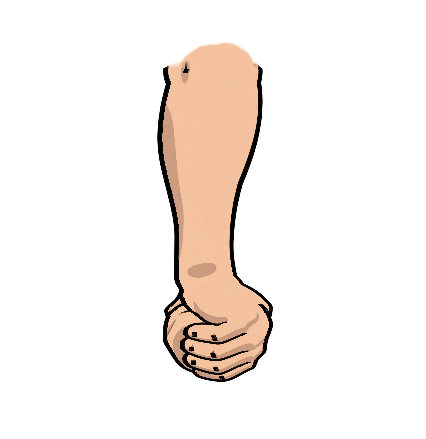
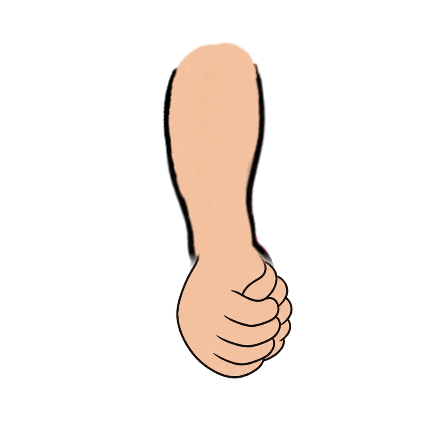
PLAN_GRAPPLES T2.0b (Codex, Opus-reviewed): George's three clasp forearms keep his own forearm.png shaft (0 changed px through the wrist, was ~18.9k) and get new hands in his line; clutch anchors refit
Fit --check passes (capDiff 0 both rigs). Proof: research/art/clasps-2026-11/t2-0b-george/. Opus look: hand outlines are thinner than George's base hand, waistClasp most; Derek judges in ring.

Changed region(s): [[0.3662, 0.1481, 0.7019, 0.8884]]

diff --git a/research/art/clasps-2026-11/t2-0b-george/index.html b/research/art/clasps-2026-11/t2-0b-george/index.html
@@ -1,0 +1,1 @@
+<!doctype html><meta charset="utf-8"><title>George clasp hand-only revision — T2.0b</title><style>body{font:16px system-ui;background:#181b20;color:#eee;margin:24px}a{color:#9dcaff}img{max-width:100%;height:auto}.row{display:flex;gap:8px}.row a{width:25%}table{border-collapse:collapse}td,th{padding:8px;border:1px solid #555}</style><h1>George clasps — hand-only revision (T2.0b)</h1><p>426×439 canvas, original elbow pivot. Rows 0–252 inclusive are copied pixel for pixel from George’s forearm.png, including transparent RGB. Only the hand side of that wrist boundary changes. No Lou wrist oval or elbow notch is transplanted. Uncommitted candidates for Opus review.</p><p>Each panel uses the identical canvas and pose. Overlay = 50% base + 50% clasp. Magenta = changed RGBA pixel, yellow rectangle = actual changed bounds, cyan line = wrist boundary. Open an image for full 3× pixels. Raw binary masks have no annotations.</p><table><tr><th>Clasp</th><th>Old changed shaft px</th><th>New changed shaft px</th><th>All changed px</th><th>Changed bounds</th></tr><tr><td>collarTie</td><td>18861</td><td><b>0</b></td><td>13746</td><td>[148, 253, 301, 400]</td></tr><tr><td>elbowCup</td><td>18894</td><td><b>0</b></td><td>14786</td><td>[128, 253, 301, 400]</td></tr><tr><td>waistClasp</td><td>18546</td><td><b>0</b></td><td>13716</td><td>[174, 253, 301, 430]</td></tr></table><h2>collarTie</h2><div class="row"><a href="collarTie-base-3x.png">base<img src="collarTie-base-3x.png"></a><a href="collarTie-clasp-3x.png">clasp<img src="collarTie-clasp-3x.png"></a><a href="collarTie-overlay-3x.png">overlay<img src="collarTie-overlay-3x.png"></a><a href="collarTie-diff-3x.png">diff<img src="collarTie-diff-3x.png"></a></div><p><a href="collarTie-proof-3x.png">Combined proof</a> · <a href="collarTie-diff-mask.png">Raw pixel diff</a></p><h2>elbowCup</h2><div class="row"><a href="elbowCup-base-3x.png">base<img src="elbowCup-base-3x.png"></a><a href="elbowCup-clasp-3x.png">clasp<img src="elbowCup-clasp-3x.png"></a><a href="elbowCup-overlay-3x.png">overlay<img src="elbowCup-overlay-3x.png"></a><a href="elbowCup-diff-3x.png">diff<img src="elbowCup-diff-3x.png"></a></div><p><a href="elbowCup-proof-3x.png">Combined proof</a> · <a href="elbowCup-diff-mask.png">Raw pixel diff</a></p><h2>waistClasp</h2><div class="row"><a href="waistClasp-base-3x.png">base<img src="waistClasp-base-3x.png"></a><a href="waistClasp-clasp-3x.png">clasp<img src="waistClasp-clasp-3x.png"></a><a href="waistClasp-overlay-3x.png">overlay<img src="waistClasp-overlay-3x.png"></a><a href="waistClasp-diff-3x.png">diff<img src="waistClasp-diff-3x.png"></a></div><p><a href="waistClasp-proof-3x.png">Combined proof</a> · <a href="waistClasp-diff-mask.png">Raw pixel diff</a></p><p><a href="REPORT.md">Report</a> · <a href="pixel-diff.json">Exact measurements</a></p>

diff --git a/src/characters/george_roster_v1.js b/src/characters/george_roster_v1.js
@@ -267,8 +267,8 @@ export const georgeRosterV1 = {
                 "file": "forearm_collar_tie.png",
                 "semanticAnchors": {
                     "clutch": {
-                        "u": 0.5273841590918646,
-                        "v": 0.7835990888382688
+                        "u": 0.5766197183098591,
+                        "v": 0.7510250569476081
                     }
                 }
             },
@@ -277,8 +277,8 @@ export const georgeRosterV1 = {
                 "file": "forearm_elbow_cup.png",
                 "semanticAnchors": {
                     "clutch": {
-                        "u": 0.5188266972272926,
-                        "v": 0.7835990888382687
+                        "u": 0.5436619718309859,
+                        "v": 0.7366742596810935
                     }
                 }
             },
@@ -287,8 +287,8 @@ export const georgeRosterV1 = {
                 "file": "forearm_waist_clasp.png",
                 "semanticAnchors": {
                     "clutch": {
-                        "u": 0.5622796491114113,
-                        "v": 0.7835990888382687
+                        "u": 0.5673239436619718,
+                        "v": 0.7558086560364465
                     }
                 }
             }

diff --git a/tools/debug/prove_george_clasps.py b/tools/debug/prove_george_clasps.py
@@ -1,0 +1,64 @@
+"""PLAN_GRAPPLES T2.0b: exact RGBA proof; never modifies the fitted assets.
+python3 tools/debug/prove_george_clasps.py [output-directory]
+Requires Pillow. 3x inspection panels use nearest-neighbor scaling.
+"""
+from pathlib import Path
+from PIL import Image, ImageDraw
+import hashlib, json, subprocess, sys, io, struct
+ROOT=Path(__file__).resolve().parents[2]
+OUT=Path(sys.argv[1]) if len(sys.argv)>1 else ROOT/'research/art/clasps-2026-11/t2-0b-george'
+OUT.mkdir(parents=True,exist_ok=True)
+DONORS=ROOT/'Sprite sheets/AI Pilot/shared/articulation-donors/2026-11-07-george-clasps-v2'
+OLD=ROOT/'Sprite sheets/AI Pilot/shared/articulation-donors/2026-11-07-clasps-v1'
+base_path=ROOT/'src/assets/wrestlers/george-roster-v1/forearm.png'
+base=Image.open(base_path).convert('RGBA'); w,h=base.size
+manifest=json.loads((DONORS/'protected-baseline.json').read_text())
+for path,sha in manifest.items():
+    assert hashlib.sha256((ROOT/path).read_bytes()).hexdigest()==sha, f'Protected file changed: {path}'
+records=[]
+for name,snake in [('collarTie','collar_tie'),('elbowCup','elbow_cup'),('waistClasp','waist_clasp')]:
+    fit=json.loads((OLD/name/'fit-measurements.json').read_text())['rigs']['george-roster-v1']
+    asset=f'src/assets/wrestlers/george-roster-v1/forearm_{snake}.png'
+    candidate=Image.open(ROOT/asset).convert('RGBA'); assert candidate.size==base.size
+    before=Image.open(io.BytesIO(subprocess.check_output(['git','show',f'c9a2c2d:{asset}'],cwd=ROOT))).convert('RGBA')
+    wrist=fit['wristRow']; A=list(struct.iter_unpack('4B',base.tobytes())); B=list(struct.iter_unpack('4B',candidate.tobytes())); C=list(struct.iter_unpack('4B',before.tobytes()))
+    changed=[i for i,(a,b) in enumerate(zip(A,B)) if a!=b]
+    above=[i for i in changed if i//w<=wrist]; assert not above, (name,len(above))
+    old_above=sum(a!=c for i,(a,c) in enumerate(zip(A,C)) if i//w<=wrist)
+    xs=[i%w for i in changed]; ys=[i//w for i in changed]; box=[min(xs),min(ys),max(xs),max(ys)]
+    visible_changed=sum(A[i][3]>0 or B[i][3]>0 for i in changed)
+    # Raw binary diff is unannotated: white = any changed RGBA byte in that pixel.
+    mask=Image.new('L',(w,h)); mask.putdata([255 if a!=b else 0 for a,b in zip(A,B)]);mask.save(OUT/f'{name}-diff-mask.png')
+    def backed(im):
+        bg=Image.new('RGBA',(w,h),(75,78,82,255));bg.alpha_composite(im);return bg.convert('RGB')
+    overlay=Image.blend(backed(base),backed(candidate),.5)
+    diff=Image.new('RGB',(w,h),(27,30,34));pix=diff.load()
+    for i in changed:pix[i%w,i//w]=(247,80,178)
+    panels={'base':backed(base),'clasp':backed(candidate),'overlay':overlay,'diff':diff}
+    for label,im in panels.items():
+        im=im.resize((w*3,h*3),Image.Resampling.NEAREST);d=ImageDraw.Draw(im)
+        d.line((0,wrist*3,w*3,wrist*3),fill=(80,220,255),width=2)
+        if label in ['overlay','diff']: d.rectangle(tuple(v*3 for v in box),outline=(255,225,75),width=3)
+        im.save(OUT/f'{name}-{label}-3x.png')
+    sheet=Image.new('RGB',(w*3*4,h*3+42),(20,22,25));draw=ImageDraw.Draw(sheet)
+    for j,label in enumerate(panels):
+        im=Image.open(OUT/f'{name}-{label}-3x.png');sheet.paste(im,(j*w*3,42));draw.text((j*w*3+12,12),f'{name}: {label} (3x)',fill='white')
+    sheet.save(OUT/f'{name}-proof-3x.png')
+    records.append({'variant':name,'canvas':[w,h],'wristRowInclusive':wrist,'preservedRows':[0,wrist],
+                    'changedPixelsAboveWrist':len(above),'beforeChangedPixelsAboveWrist':old_above,
+                    'changedPixelsTotal':len(changed),'visibleChangedPixels':visible_changed,'changedBounds':box,
+                    'contact':fit['contact'],'clutch':fit['semanticAnchors']['clutch'],
+                    'pivot':fit['pivot'],'baseSha256':hashlib.sha256(base_path.read_bytes()).hexdigest(),
+                    'outputSha256':hashlib.sha256((ROOT/asset).read_bytes()).hexdigest(),
+                    'skinMedianTarget':fit['targetSkinMedian'],'skinMedianHand':fit['fittedHandSkinMedian']})
+(OUT/'pixel-diff.json').write_text(json.dumps(records,indent=2)+'\n')
+body='''<!doctype html><meta charset="utf-8"><title>George clasp hand-only revision — T2.0b</title><style>body{font:16px system-ui;background:#181b20;color:#eee;margin:24px}a{color:#9dcaff}img{max-width:100%;height:auto}.row{display:flex;gap:8px}.row a{width:25%}table{border-collapse:collapse}td,th{padding:8px;border:1px solid #555}</style><h1>George clasps — hand-only revision (T2.0b)</h1><p>426×439 canvas, original elbow pivot. Rows 0–252 inclusive are copied pixel for pixel from George’s forearm.png, including transparent RGB. Only the hand side of that wrist boundary changes. No Lou wrist oval or elbow notch is transplanted. Uncommitted candidates for Opus review.</p><p>Each panel uses the identical canvas and pose. Overlay = 50% base + 50% clasp. Magenta = changed RGBA pixel, yellow rectangle = actual changed bounds, cyan line = wrist boundary. Open an image for full 3× pixels. Raw binary masks have no annotations.</p><table><tr><th>Clasp</th><th>Old changed shaft px</th><th>New changed shaft px</th><th>All changed px</th><th>Changed bounds</th></tr>'''
+for r in records:body+=f'<tr><td>{r["variant"]}</td><td>{r["beforeChangedPixelsAboveWrist"]}</td><td><b>{r["changedPixelsAboveWrist"]}</b></td><td>{r["changedPixelsTotal"]}</td><td>{r["changedBounds"]}</td></tr>'
+body+='</table>'
+for r in records:
+    n=r['variant'];body+=f'<h2>{n}</h2><div class="row">'
+    for label in ['base','clasp','overlay','diff']:body+=f'<a href="{n}-{label}-3x.png">{label}<img src="{n}-{label}-3x.png"></a>'
+    body+=f'</div><p><a href="{n}-proof-3x.png">Combined proof</a> · <a href="{n}-diff-mask.png">Raw pixel diff</a></p>'
+body+='<p><a href="REPORT.md">Report</a> · <a href="pixel-diff.json">Exact measurements</a></p>'
+(OUT/'index.html').write_text(body)
+print(json.dumps(records,indent=2))

diff --git a/research/art/clasps-2026-11/t2-0b-george/REPORT.md b/research/art/clasps-2026-11/t2-0b-george/REPORT.md
@@ -1,0 +1,57 @@
+# T2.0b — George’s shaft preserved, clasp hands redrawn
+
+2026-11-07 · Codex · Started on `story/marigold-opening`, HEAD `c9a2c2d`. **Uncommitted candidates for Opus review. T2.0b only.**
+
+[3× overlays and pixel diffs](index.html) · [exact measurements](pixel-diff.json).
+
+## Result
+
+George’s original `forearm.png` is the authority for every RGBA pixel in rows **0–252 inclusive** of the 426×439 canvas. Row 252 is the wrist boundary: the shaft/outline remains the original drawing there too. Changes start at row 253, on the hand side. The replacement hands were generated from George’s own art and tone reference, not Lou’s clasp master. Deterministic fitting discards the generated shaft completely. No Lou wrist oval or elbow notch can enter the preserved region.
+
+| Clasp | Prior changed shaft pixels vs George base | New changed shaft pixels | Total changed hand-region pixels | Changed bounds |
+|---|---:|---:|---:|---|
+| collarTie | 18861 | **0** | 13746 | [148, 253, 301, 400] |
+| elbowCup | 18894 | **0** | 14786 | [128, 253, 301, 400] |
+| waistClasp | 18546 | **0** | 13716 | [174, 253, 301, 430] |
+
+Counts compare decoded **RGBA bytes**, including RGB under transparency, without a tolerance or alpha threshold. A changed pixel means any of its four channels differs. The prior assets are read from `c9a2c2d`; counts include all preserved rows through the wrist. Total changed pixels include removal of the original extended fingers and transparent-RGB differences in the hand region; `visibleChangedPixels` is separately listed in JSON. Diff bounds start at y253 in all three variants.
+
+## Proof interpretation
+
+Each clasp has base, revised, 50/50 overlay, and magenta diff panels at the identical unrotated pose/canvas/pivot, enlarged exactly 3× with nearest-neighbor sampling. The yellow rectangle outlines actual changed bounds; cyan marks the wrist boundary. The raw binary diff PNG has no annotation. This compares painted pixels rather than sprite quads. It establishes shaft identity, not natural match contact or grasp anatomy approval. Opus/Derek still judge the hand poses and the join.
+
+## Fit / anchor changes
+
+`tools/debug/fit_george_clasp.mjs` composites the new hand below the boundary, with a 16-row transition confined to the hand side. It shifts hand skin medians toward the wrist’s (243,193,159) RGB; fitted hand medians match those channel values. This is a palette diagnostic, not proof that every shade or contour is identical. No ink-thickening from Lou is used on George’s hand. The original cap and shaft are never recolored, rescaled, outlined or repainted.
+
+`build_forearm_variant.mjs` delegates George’s three clasp fits to this helper; Lou and sleeper-wrap rebuilds retain their prior output bytes. The helper writes contact anchors from manually selected opaque palm points. Only the three existing `semanticAnchors.clutch` (u,v) pairs in `george_roster_v1.js` were updated, through the fit command; no new registration or grip/IK behavior.
+
+| Clasp | Contact, canvas px | clutch (u,v) |
+|---|---|---|
+| collarTie | (245.640, 329.700) | (0.576619718310, 0.751025056948) |
+| elbowCup | (231.600, 323.400) | (0.543661971831, 0.736674259681) |
+| waistClasp | (241.680, 331.800) | (0.567323943662, 0.755808656036) |
+
+New donor masters, transformation recipe and protected-file hash inventory:
+`Sprite sheets/AI Pilot/shared/articulation-donors/2026-11-07-george-clasps-v2/`.
+The previous Lou-based donors remain intact as history. The new master images may themselves have generated shaft differences; those pixels are not consumed above the wrist.
+
+## Rebuild and validation
+
+From repo root, Node 22 / Python with Pillow:
+
+```sh
+node tools/debug/build_forearm_variant.mjs all --write-george-anchors
+node tools/debug/build_forearm_variant.mjs all --check
+python3 tools/debug/prove_george_clasps.py
+node --test tests/clasps.test.js tests/partVariants.test.js
+```
+
+- Full fit byte/measurement/anchor check: passes, sleeper wrap included.
+- Exact pixel proof: **0 changed pixels above/through the wrist for all three clasps**.
+- Protected-file SHA-256 checks: George base, Lou forearms/variants and George sleeper-wrap unchanged.
+- Focused tests: **15/15 pass**.
+- `git diff --check`: passes.
+- No fresh in-ring capture or claims about contact quality; no full suite/build needed for this bounded art/anchor change.
+
+Only the three George PNGs, their contact anchor metadata, fit/proof tooling and this art evidence belong to this task. Concurrent `lockup.js` / `lockup.test.js` / r7 tool edits belong to the other work and were not changed by Codex. No commit, push or T2.2 r7 execution.
